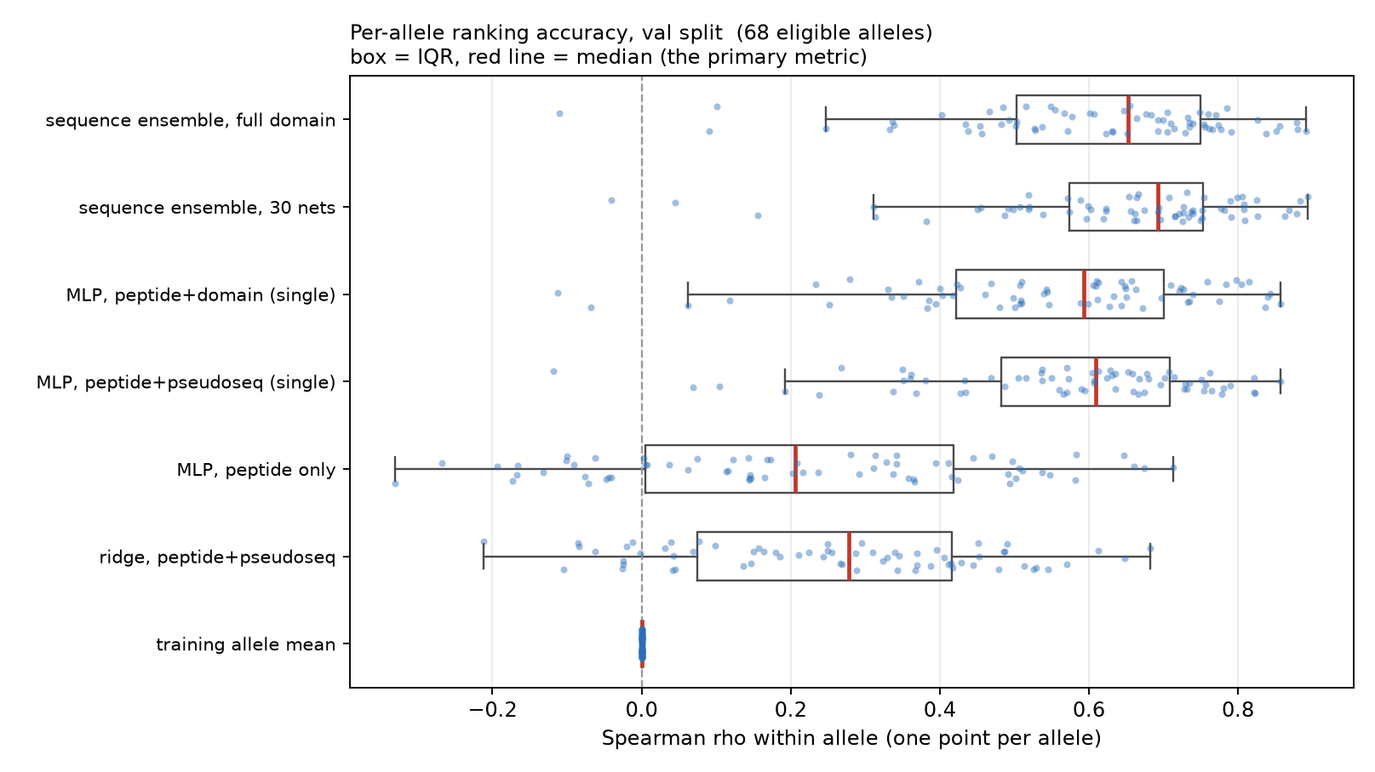
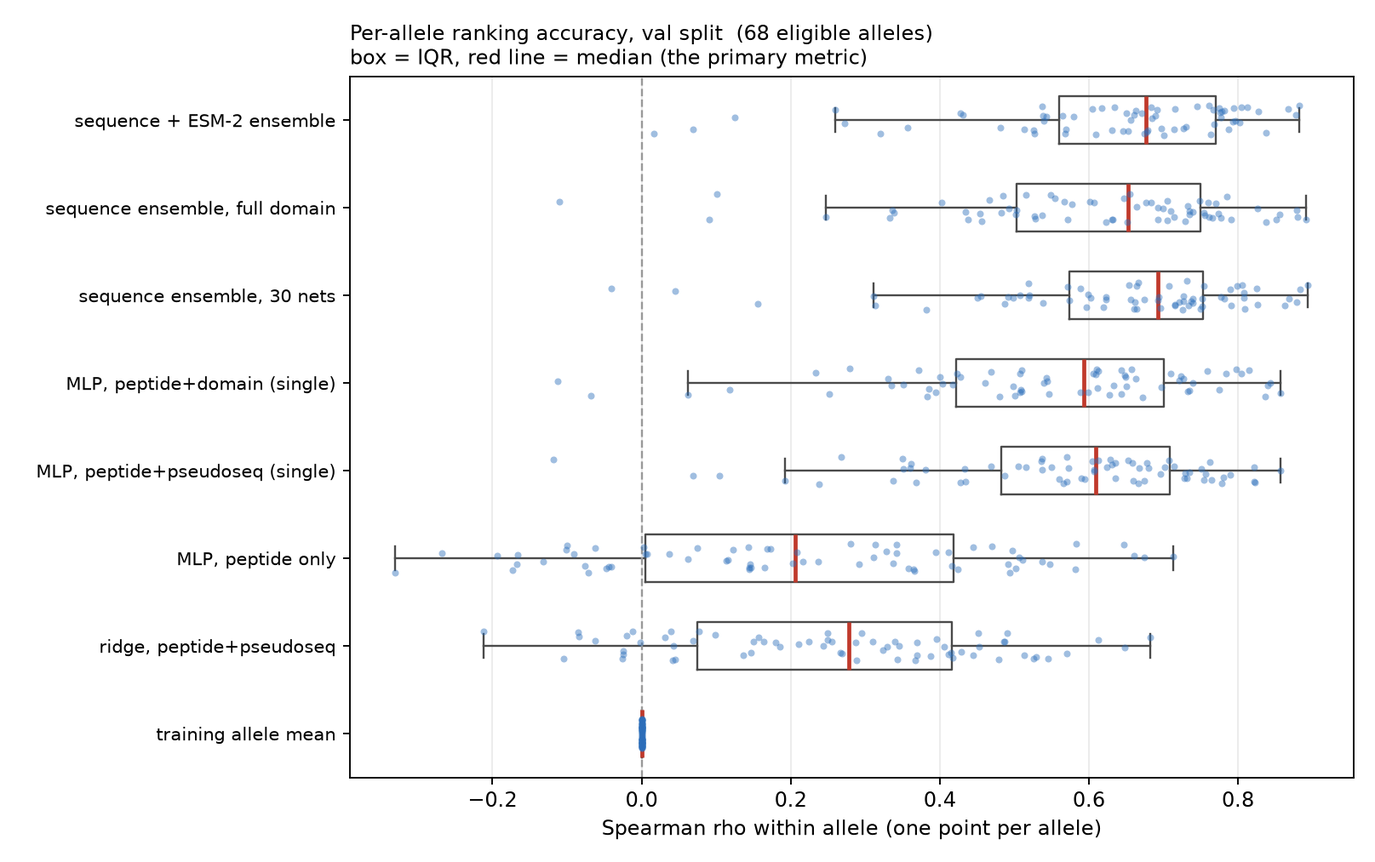
Write up both stage 7 results and carry the corrected confound everywhere
The censored arm enters the results table at 0.6518 with the verdict "worse,
conclusively" -- the only negative verdict in it, and the one verdict the
project had not otherwise produced, since every other negative here is
inconclusive-but-rules-out-the-bar. It sits directly above the two in-flight
foundation-model rows, which demonstrates the contract can return a negative
rather than only ever hedging.

The corrected allele-hold-out confound replaces the plan's original mechanism
in all three places it appeared, verified by grep. Carried with it: this
contract is easier in one respect -- seen peptide, unseen allotype -- so 0.741
must never be quoted beside the frozen split's 0.693, which would look like a
win and is not comparable.

Ledger records 538 networks across two complete experiments for about an hour
of laptop CPU, against $200.8 forecast for one structural fold.

diff --git a/reports/SUBMISSION.md b/reports/SUBMISSION.md
@@ -700,6 +700,67 @@ fine backbone detail, not in the coarse pose descriptors. Nothing material turns
 on it, since production is Boltz-2 only; it governs how ESMFold2 is *described*,
 not what runs.
 
+### 4.6 A censored likelihood fixes the floor and loses the ranking
+
+Stage 1 recorded that treating a detection floor as an exact zero is the
+project's biggest modelling compromise, and that a **left-censored (Tobit-style)
+likelihood** is the principled fix: for a floor row the honest statement is not
+"t<sub>1/2</sub> = 0" but "the latent value is at or below the detection limit".
+That has now been built and tested
+([`stage7_censored.md`](stage7_censored.md)).
+
+Everything was predeclared before a single censored model was fitted — the loss,
+the detection limit **c = log1p(0.1 h)** justified from the 0.1 h reporting grid
+rather than from any score, a five-point sensitivity sweep, the prediction
+heads, and the expectation that a censored loss should improve *calibration near
+the floor* rather than *ranking*. Two 30-network ensembles, identical in
+everything but the objective.
+
+| | median per-allele ρ | MAE log1p | mass below the limit | ECE | floor AUROC |
+|---|---:|---:|---:|---:|---:|
+| `log1p`-MSE (the baseline) | **0.6931** | **0.4734** | 0.070 | 0.0561 | 0.8862 |
+| censored @ 0.1 h | 0.6518 | 0.5763 | **0.168** | **0.0422** | 0.8853 |
+| *observed* | — | — | *0.196* | — | — |
+
+**Δ median per-allele Spearman = −0.0414, 95% CI [−0.0780, −0.0062].** The
+interval lies **entirely below zero**, so under the predeclared reading this is
+the one verdict this project has not otherwise produced: **worse, conclusively** —
+not inconclusive, and not merely "fails to clear the bar".
+
+Three things make that a real negative rather than a metric mismatch:
+
+- **It loses on its own objective.** Held-out censored NLL is **1.0765** for the
+  censored arm against **1.0452** for the MSE arm. We did not optimise one thing
+  and measure another.
+- **The threshold is not load-bearing.** Across a six-fold range of the
+  detection limit, 0.05–0.30 h, median ρ spans **0.0095** — far below the seed
+  spread, let alone the 0.05 bar. The declared 0.1 h is neither the best nor the
+  worst point in that sweep, which is what a threshold fixed before training
+  should look like.
+- **It delivered exactly the calibration it promised, and that was not enough.**
+  Predictive mass below the limit moves 7.0% → **16.8%** against an observed
+  19.6%, and expected calibration error improves 0.0561 → **0.0422**. But floor
+  *discrimination* does not move at all (AUROC 0.8862 vs 0.8853) — which is what
+  §5 of that report predicted, because **ranking within the tied floor block is
+  unidentifiable under either objective**. The censored arm places floor rows
+  better on the scale; it does not order them better.
+
+**The mechanism, reported as a control and not as a result.** The censored arm's
+own dev objective bottoms out at epoch ~10 against the MSE arm's ~27, so it is
+systematically **undertrained**. A control changing only the stopping rule — same
+loss, same gradients — recovers almost all of the ranking (−0.0065 against its
+reference, versus −0.0318) while roughly halving the calibration error. That
+control was predeclared as a control, ran at a reduced budget, and **has no
+confidence interval**. It localises a likely fix; it does not establish one.
+Promoting it to a result would be precisely the post-hoc selection this stage
+exists to avoid, so it stays a control.
+
+**What stands:** the frozen `log1p`-MSE baseline. Nothing downstream switches
+loss on this evidence. What the censored arm uniquely offers is a *probability
+that a pair sits below the assay floor*, produced by its own fit rather than by
+a scale bolted on afterwards — useful if a downstream application needs that
+number, which this benchmark does not.
+
 ---
 
 ## 5. Results
@@ -725,6 +786,7 @@ do not answer.
 | **30-net ensemble, pep + pseudoseq** | **the baseline to beat** | **0.693** | — | — | **$2.0 × 10⁻⁷** |
 | Weak-binder augmentation (best arm) | 2,910–4,407 assumed-zero rows | 0.618 | +0.024 [−0.026, +0.048] | **inconclusive, rules out 0.05** | $2.0 × 10⁻⁷ |
 | Auxiliary affinity head (best λ) | 5,135 affinity labels | 0.701 | +0.008 [−0.017, +0.030] | **inconclusive, rules out 0.05** | $2.0 × 10⁻⁷ |
+| Censored (Tobit) likelihood | same features, censored loss | 0.6518 | **−0.0414 [−0.0780, −0.0062]** | **worse, conclusively** | $2.0 × 10⁻⁷ |
 | **ESM-2, frozen representations** | **pretrained sequence embeddings** | **‹HOLE E2›** | **‹HOLE E2›** | **‹HOLE E2›** | **$4.4 × 10⁻⁴** + ‹HOLE E1b› |
 | **Boltz-2, structural features** | **predicted 3D complex + confidence** | **‹HOLE B2›** | **‹HOLE B2›** | **‹HOLE B2›** | **$6.90** |
 
@@ -785,10 +847,11 @@ dash-dot line is the entire result.
 | **E2** | ESM-2 validation accuracy and its paired CI | `esm-arm` | Median per-allele ρ under `cv_folds()` with matched ensemble size, and the paired cluster-bootstrap Δ against `preds/seq_ensemble_pep_pseudo.csv`. Must also be compared against the **full-domain** ensemble (0.653) if the HLA input is the domain |
 | **B2** | Boltz-2 structural accuracy and its paired CI | stage 4c production → stage 5 | Same, on identical train/val/test rows with matched head architecture, ensemble size and tuning budget. Plus coverage and the declared sequence fallback for structural failures |
 | **B3** | Realised production spend | Modal production session | Metered before/after snapshots per workspace, realised GPU-hours and wall clock, failure count, actual concurrency granted. `production_<profile>.jsonl` exist for both profiles and are currently **empty** |
+| **A1** | Per-stratum leave-allele-out for the ESM-2 and structural arms (§6.6) | `esm-arm` / stage 5 | A **feature matrix plus its `pair_id` index**, refit across all 68 folds at the fixed 6 networks per fold — **not** a `preds/*.csv`, which the runner rejects. A stratum may come back inconclusive and must be reported as such |
 | **B4** | Structural coverage and failure rate (§6.5) | stage 5 | Pairs with a valid structure, pairs falling back to the sequence model, and the primary result reported on the **frozen cohort**, not on whatever folded |
 | **E1b** | ESM-2 **head** inference cost | `esm-arm` | The extraction half is already measured (`stage3_embedding_cost.csv`: 1.07–8.50 s per 1,000 new peptides across three checkpoints). Still needed: head inference seconds per 1,000 rows, member count, and which checkpoint/layer/representation was selected |
 | ~~S3C~~ | ~~Elution external validation~~ | — | **Filled**: [`stage3c_elution_validation.md`](stage3c_elution_validation.md), §4.4 above. Still open as a *follow-on*: the same pass on the ESM-2 and structural arms |
-| **S7a** | Censored (Tobit) likelihood result | stage 7a | `stage7_censored.md` §1–5 are predeclared and committed; §6 is "pending". Needed: the paired Δ against the identical-protocol MSE ensemble, plus the `c_hours` sensitivity sweep |
+| ~~S7a~~ | ~~Censored (Tobit) likelihood result~~ | — | **Filled**: [`stage7_censored.md`](stage7_censored.md), §4.6 above. Negative on ranking, with the sensitivity sweep and the undertraining control |
 | **S6** | Stage 6 test results, distance strata, differential target, nested near-neighbour CV | `eval-harness` | §6 below |
 
 ---
@@ -800,8 +863,9 @@ evaluations were specified in the frozen contract, each answering a question the
 headline cannot. **They run at stage 6 and cost no new compute** — all are
 re-aggregations of predictions already made.
 
-A sixth — transfer to an entirely different assay — has already been delivered
-and is reported in §4.4, with its three specificity controls.
+Two more have already been delivered: transfer to an entirely different assay
+(§4.4, with its three specificity controls) and the leave-allele-out evaluation
+(§6.6), which needed a second contract of its own.
 
 ### 6.1 Distance stratification — is the model generalising or remembering?
 
@@ -853,6 +917,72 @@ a declared sequence-model fallback** as the primary result, and common successfu
 rows only as a diagnostic. **Scoring only the pairs that happened to fold would
 be a retrospectively chosen cohort**, which is exactly the kind of quiet
 selection a watertight evaluation has to rule out. Result: **‹HOLE B4›**.
+
+### 6.6 Leave-allele-out — a second contract, and the headroom it exposes
+
+This is the one evaluation that asks a *different* question from the headline:
+not "unseen peptides on alleles we trained on" but **"unseen allotype"**. It
+needs its own split, its own contract and every number reported twice, which is
+why the plan put it at "if time remains". It has now been run for the sequence
+arm ([`stage7_allele_holdout.md`](stage7_allele_holdout.md)): 68 folds, one per
+eligible allele, each fitting on every *other* allele's rows, 6 networks per
+fold, no tuning, `split in {train, val}` only. **The frozen test split was not
+read, and `data/splits.csv` is unmodified.**
+
+| Stratum (pseudosequence Hamming to nearest training allele) | Alleles | Median ρ | 95% CI |
+|---|---:|---:|---|
+| near, d ≤ 1 | 25 | **0.741** | [0.642, 0.803] |
+| intermediate, d = 2–3 | 23 | 0.576 | [0.458, 0.726] |
+| distant, d ≥ 4 | 20 | **0.339** | [0.298, 0.491] |
+
+**near − distant = +0.403 [+0.223, +0.478].** The sequence baseline degrades
+sharply on allotypes unlike anything it trained on.
+
+**The extreme contrast is solid; the monotone three-bin trend is not.** The
+adjacent contrasts do not hold up — near − intermediate is **+0.166 [−0.010,
++0.327]**, which crosses zero — and the strata overlap heavily: the distant
+bin's *best* allele (0.753) beats the near bin's *worst* (0.419). The medians
+separate; the distributions do not. Reporting a monotone trend would overstate
+what this design resolves.
+
+**This is where a pretrained model has its strongest prior of winning** —
+pan-allele generalisation is exactly what large-scale pretraining should
+supply — so a 0.403 deficit in that stratum is a large, measurable headroom.
+**Nothing here says ESM-2 will capture it.** A measured deficit is a
+precondition for the claim, not evidence for it.
+
+**Two constraints that travel with every number above.**
+
+*The confound is real, but not the one the plan described.* The plan asserted
+that holding out an allele also holds out its peptide panel. Measured, that is
+**not what happens**: the median peptide is assayed on **4 alleles**,
+allele-exclusive peptides are only **6.0% of rows**, and for the median eligible
+allele **100%** of its rows carry a peptide seen on some other allele. Peptide
+overlap is uncorrelated with distance (−0.067) and with per-allele performance
+(+0.034). So this evaluation is largely *seen peptide, unseen allotype* — easier
+than the frozen split in one respect, harder in another, and its absolute
+numbers **must never be quoted beside a frozen-split number**. What does survive
+is **panel composition**: distant alleles carry weaker-binding, more heavily
+censored panels (Spearman(distance, zero share) = +0.251, p = 0.039). Partialling
+that out leaves distance at **−0.604** (p = 4.9 × 10⁻⁸) against −0.636 raw — so
+the confound is **attenuated, not eliminated**, and zero share is only one proxy
+for panel composition. The clearest illustration is the single worst fold:
+`HLA-B*39:06(C67S)` at **d = 3**, with a 91.8% floor panel — it scores badly
+because of its panel, not its distance.
+
+*A prediction file cannot be scored through this contract.* Everything in
+`preds/*.csv` is the output of a model fitted on **every** allele. Scoring one
+here would score a model on alleles it trained on and **report the leak as
+pan-allele generalisation — a number that would look like a win.**
+Leave-allele-out refits 68 times, so **each arm must supply features and be
+refit**, not hand over predictions. The runner rejects a `preds/*.csv` with that
+message and a test guards it. Ensemble size is fixed at 6 networks per fold for
+every arm, so no arm can win on ensembling budget.
+
+Per-stratum ESM-2 and structural comparisons are therefore worth running and are
+**not guaranteed to conclude**: the measured minimum detectable effect is 0.025–0.030
+when per-allele deltas are tight, rising to 0.075–0.115 when they are loose, so
+an inconclusive stratum must be reported as inconclusive rather than as a null.
 
 ---
 
@@ -952,12 +1082,17 @@ reader's interpretation most:
    censored (Tobit) likelihood is the principled fix; it was recorded as out of
    scope and is now in flight as stage 7a, with its protocol predeclared and
    its results pending (hole **S7a**).
-2. **The peptide panels are allele-confounded by design.** Each allele was
-   assayed on its own panel; the grid is 6.7% full. This broke the first split,
-   and it is the reason leave-allele-out evaluation is not the headline —
-   holding out an allele also holds out its peptide panel, so an allele-distance
-   effect is inseparable from a panel effect. **That confound does not disappear
-   by being measured.**
+2. **The peptide panels are allele-confounded by design — though not in the way
+   we first wrote down.** Each allele was assayed on its own panel; the grid is
+   6.7% full, and this broke the first split. The plan then claimed that holding
+   out an allele also holds out its peptide panel. **Measured, that is false**:
+   the median peptide sits on 4 alleles, allele-exclusive peptides are 6.0% of
+   rows, and for the median eligible allele 100% of its rows carry a peptide
+   seen elsewhere (§6.6). The confound survives through **panel composition**,
+   not panel hold-out — distant alleles carry more heavily censored panels
+   (+0.251, p = 0.039) — and partialling that out leaves the distance effect at
+   −0.604 against −0.636 raw. **Attenuated, not eliminated**, and zero share is
+   only one proxy for panel composition.
 3. **The assay panel was pre-selected by predicted affinity**, so peptide
    diversity is narrow by construction. The benchmark measures ranking *within
    the set of peptides that bind*. Broader biological or clinical claims need
@@ -996,17 +1131,16 @@ Ordered by expected value per hour, not by appeal.
 1. **Finish the in-flight arms and score the test set once** (holes E1b, E2,
    B2–B4, S3C, S6, S7a). Everything else is downstream of knowing whether the
    expensive arms clear 0.05.
-2. **Finish the censored (Tobit) likelihood — now in flight as stage 7a.** This
-   is the highest-value single change to the modelling. 20.2% of labels are a
-   detection limit treated as exact zeros, and the same problem independently
-   wrecked the stage 2b affinity predictor's recall (0.263 at 0.823 precision,
-   because 26.8% of its labels sit exactly on the threshold). One fix addresses
-   both. [`stage7_censored.md`](stage7_censored.md) predeclares the loss, the
-   detection threshold `c = log1p(0.1)`, a five-point sensitivity sweep and the
-   prediction heads **before any censored model was fitted** — and predeclares
-   the expectation that it should improve calibration near the floor rather than
-   ranking, since order inside the tied floor block is unidentifiable under
-   either objective. Hole **S7a**.
+2. **Re-run the censored likelihood with the MSE stopping rule.** §4.6 settled
+   the headline question — as predeclared, the censored loss is **worse on
+   ranking**, conclusively. But it localised a likely cause: the censored arm's
+   own dev objective turns over at epoch ~10, so it is undertrained, and a
+   control changing only the stopping rule recovers almost all of the ranking
+   *and* halves the calibration error. That control has no interval and was run
+   at reduced budget. Running it properly, predeclared, at full budget is the
+   obvious next experiment — and it must be predeclared, because selecting it
+   now on the strength of the control would be the post-hoc selection the stage
+   avoided. A heteroscedastic scale and a per-allele floor are also untested.
 3. **Test the chimeric ESM-2 input.** If the separate-embedding arm is flat, the
    obvious objection is that we never let the language model see the interaction.
    A peptide-linker-groove construct is the sharpest version of the question and
@@ -1017,11 +1151,13 @@ Ordered by expected value per hour, not by appeal.
    rows). Affinity is redundant with what a *sequence* model extracts; that says
    nothing about ESM-2 features. "Cheap labels substitute for expensive
    pretraining" would be a genuinely useful finding.
-5. **Run the allele-held-out evaluation, with its confound reported alongside.**
-   This is the stratum where pretraining has the strongest prior of winning —
-   pan-allele generalisation is exactly what large-scale pretraining should
-   provide — so a gain confined to distant alleles would be real and reportable
-   even if the pooled comparison came out flat.
+5. **Run the ESM-2 and structural arms through the leave-allele-out contract.**
+   §6.6 has already run it for the sequence arm and found a **0.403 deficit** on
+   distant allotypes — the stratum where pretraining has the strongest prior of
+   winning. A gain confined there would be real and reportable even if the
+   pooled comparison came out flat. **Each arm must supply features and be refit
+   across all 68 folds**; handing over a `preds/*.csv` would score a model on
+   alleles it trained on and report the leak as generalisation.
 6. **Check the ProteinMPNN pose-triage signal on more than one failing
    complex.** §4.5 is a promising observation resting on n=1, and it will stay
    that way until production structures exist and the QC sample runs. Until then

diff --git a/reports/limitations.md b/reports/limitations.md
@@ -72,8 +72,23 @@ limit", and `log1p` records "t½ = 0". Two consequences:
 
 **The principled alternative is a censored (Tobit-style) likelihood**, which
 models P(t½ < floor) directly. It was recorded as out of scope for a 16-hour
-build, not as unnecessary (`HACKATHON_PLAN.md`, out-of-scope register), and is
-**now in flight as stage 7a** — `reports/stage7_censored.md` predeclares the
+build, not as unnecessary (`HACKATHON_PLAN.md`, out-of-scope register). **It has
+now been built and tested, and it is worse** — Δ median per-allele Spearman
+**−0.0414, 95% CI [−0.0780, −0.0062]**, an interval entirely below zero, and it
+also loses on its own held-out objective (censored NLL 1.0765 vs 1.0452). It
+does deliver the calibration it promised (predictive mass below the limit
+7.0% → 16.8% against an observed 19.6%; ECE 0.0561 → 0.0422) and does **not**
+improve floor discrimination at all (AUROC 0.8862 vs 0.8853), exactly as
+predeclared, because ranking inside the tied floor block is unidentifiable under
+either objective. The result is flat across detection limits 0.05–0.30 h (median
+ρ spans 0.0095), so the free parameter is not driving it. **So the `log1p`
+compromise is not merely a 16-hour substitute that was never checked — it was
+checked, and it won on the primary metric.** The likely cause of the loss is the
+stopping rule rather than the loss itself (the censored arm's dev objective
+turns over at epoch ~10 against the MSE arm's ~27, so it is undertrained); that
+is reported as a **control without an interval**, not as a result. Full detail
+in `stage7_censored.md`; summary at SUBMISSION §4.6. This was previously tracked
+as stage 7a — `reports/stage7_censored.md` predeclares the
 loss, the detection threshold `c = log1p(0.1)` (justified from the 0.1 h
 reporting grid and the single row between 0 and 0.1 h, never from a validation
 score), a five-point `c_hours` sensitivity sweep including a deliberate
@@ -127,14 +142,37 @@ it has three consequences the submission cannot design away:
    early. That left `HLA-B*42:01`, `HLA-B*51:01` and `HLA-B*81:01` (~350 pairs
    each) with **zero test rows**. Ranking by deficit relative to target fixed it
    at no cost to the 70/10/20 totals (`audit_summary.md` §5).
-2. **It is why the allele-held-out evaluation is not the headline.** Holding out
-   an allele simultaneously holds out its peptide panel, so an apparent
-   allele-distance effect is inseparable from a peptide-panel effect. **This
-   confound does not disappear by being measured** — if that evaluation is run,
-   it must be reported alongside. This reason is specific to this dataset and is
-   the one that matters; the other three (different question, second split
-   needed, skewed allele coverage) are weaker
-   (`HACKATHON_PLAN.md`, "Why the allele-axis hold-out is not the headline").
+2. **It is why the allele-held-out evaluation is not the headline — but the
+   mechanism we originally wrote down was wrong, and has been corrected.**
+   `HACKATHON_PLAN.md` claimed that holding out an allele simultaneously holds
+   out its peptide panel, making an allele-distance effect inseparable from a
+   panel effect. **Measured, that is not what happens** (`stage7_allele_holdout.md`
+   §4): the median peptide is assayed on **4 alleles**, allele-exclusive
+   peptides are **6.0% of rows**, and for the median eligible allele **100%** of
+   its rows carry a peptide also seen on another allele (minimum 0.565). Peptide
+   overlap is uncorrelated with distance (−0.067, p = 0.59) and with per-allele
+   performance (+0.034, p = 0.79). So leave-allele-out here is largely *seen
+   peptide, unseen allotype* — **easier** than the frozen split in that respect,
+   which is exactly why its absolute numbers must never be quoted beside a
+   frozen-split number.
+
+   **What the confound actually is: panel composition.** Each allele's panel was
+   partly selected by predicted binding affinity for *that* allele, and distant
+   alleles carry weaker-binding, more heavily censored panels —
+   Spearman(distance, per-allele zero share) = **+0.251, p = 0.039**. Partialling
+   the two apart leaves distance at **−0.604** (p = 4.9 × 10⁻⁸) against −0.636
+   raw, and zero share at −0.336 (p = 5.1 × 10⁻³). **Both carry independent
+   signal: the confound is attenuated, not eliminated**, and zero share is only
+   one proxy — anchor-motif composition, peptide diversity and the
+   affinity-prediction step that chose each panel are unmeasured. The single
+   worst fold makes it concrete: `HLA-B*39:06(C67S)` sits at **d = 3** with a
+   **91.8% floor panel**, so it scores badly because of its panel, not its
+   distance.
+
+   The plan's other three reasons stand unchanged, except that reason 4
+   (skewed allele coverage) describes test-split counts and **does not bind on
+   this axis** — in-scope rows per allele jump 30 → 177 with nothing between, so
+   68 alleles stratify comfortably into 25/23/20.
 3. **Per-allele medians are over an unbalanced panel.** 8 of 75 alleles hold
    fewer than 50 test rows and are excluded from the test panel; 7 of those hold
    ≤ 32 pairs in the entire dataset. Only `HLA-B*40:02` (19 pairs) is missing
@@ -517,10 +555,10 @@ Recorded so that absence is not mistaken for a result. Full rationale in
 
 | Not run | Why | Status |
 |---|---|---|
-| Allele-held-out evaluation | Confounded by allele-specific peptide panels (§2.1); different question from the headline claim | Deferred; the stratum where pretraining has the strongest prior of winning |
+| ~~Allele-held-out evaluation~~ | Different question from the headline; confounded by **panel composition**, not panel hold-out (§2.1) | **Run for the sequence arm**: near 0.741 vs distant 0.339, +0.403 [+0.223, +0.478]. Extreme contrast solid, monotone trend not. ESM-2 and structural arms still to run, and **must be refit, not scored from a `preds/*.csv`** |
 | ~~ProteinMPNN inverse-folding scores~~ | Was blocked on needing structures; the stage 4c pilot's 90 folds unblocked it | **Run** — pilot complete, §7.2. Kept as a ~$1 QC triage sample; **declined as a regression feature** on a measured n=5 label correlation of −0.100 |
 | Chimeric peptide-linker-groove ESM-2 input | Far outside ESM-2's distribution | **Listed specifically so a stage 3 null is reported as bounded** (§5.3) |
-| ~~Tobit / censored likelihood~~ | Was the 16-hour substitute's known gap | **Now in flight as stage 7a**, protocol predeclared, results pending (§1.1, hole S7a) |
+| ~~Tobit / censored likelihood~~ | Was the 16-hour substitute's known gap | **Run, and negative**: −0.0414 [−0.0780, −0.0062] on ranking, gains calibration only (§1.1) |
 | FoldX / Rosetta / empirical ΔG | Equilibrium ΔG vs a kinetic label (§1.3), **and both are licence-gated behind registration** | Declined for two independent reasons — §7.0 |
 | Elution data as training augmentation | 5.4× scale mismatch, unknowable threshold τ, confounded with abundance/cleavage/TAP/ionisation, and it changes the question | Rejected **as training data**; used as external validation instead, which has now run — §7.1 |
 | ESMFold2 production folds | Failed its gate; $884 forecast | §5.4 |
@@ -663,7 +701,8 @@ signal has been checked on more than one failing complex.
 | **B4** | Stage 5 structural feature coverage and failure rate; what the declared sequence fallback covers | blocked on 4c production |
 | **S7** | Whether d=4 and d≥5 test strata separate (§3.1), and the nested near-neighbour result (§3.2) | `eval-harness` |
 | **S8** | Any allele where the test panel disagrees sharply with validation — hard alleles vs overfitting to the validation panel | `eval-harness` |
-| **S7a** | The censored-likelihood result and its `c_hours` sensitivity sweep (§1.1) | stage 7a |
+| ~~S7a~~ | ~~Censored-likelihood result~~ — **filled**, §1.1 | — |
+| **A1** | Per-stratum leave-allele-out comparison for the ESM-2 and structural arms (§2.1). Measured MDE is 0.025–0.030 when per-allele deltas are tight and 0.075–0.115 when loose, so **a stratum may come back inconclusive and must be reported as such, not as a null** | `esm-arm` / stage 5 |
 | ~~S3C~~ | ~~Elution external-validation write-up~~ | **Filled**: `stage3c_elution_validation.md`, §7.1. Open as a follow-on: the same pass on the ESM-2 and structural arms |
 | **P1** | Whether the ProteinMPNN pose-triage signal survives a second failing complex (§7.2) | blocked on 4c production + the QC sample |
 | **A3** | Whether the six partly-inferred ectodomain constructs (§6.6) behave differently at stage 5 | stage 5 |

diff --git a/reports/compute_ledger.md b/reports/compute_ledger.md
@@ -213,6 +213,25 @@ second core was billing an idle one — and throughput moved by only ~8% (326 s 
 Spend so far on this workstream — two smokes and two 1,000-fold passes — is
 **under $0.15**.
 
+### Stages 7a and 7b — measured, CPU, $0
+
+Both ran to completion on the laptop while the GPU budget sat untouched.
+
+| Stage | Work | Networks | Time | $ |
+|---|---|---:|---:|---:|
+| 7a | Censored likelihood: 2 full 30-net ensembles, a 5-point threshold sweep and the stopping-rule control | **130** | 29.6 min | 0 |
+| 7b | Leave-allele-out: 68 folds × 6 networks, a second evaluation contract end to end | **408** | 36.2 min on 2 workers | 0 |
+
+**538 networks and two complete experiments for about an hour of laptop CPU**,
+against $200.8 forecast for one structural fold. That ratio is the submission's
+argument in miniature: the cheap arms are not cheap *because they are small* —
+they are cheap because inference on a one-hot MLP is a matrix multiply, and
+nothing about running 538 of them changes the order of magnitude.
+
+Stage 7b in particular is a **second evaluation contract** — its own split, its
+own eligibility rule, its own bootstrap unit (the allele, not the peptide
+cluster) — which the plan listed as a reason *not* to run it. It cost 36 minutes.
+
 ### A note on published versus metered rates
 
 Both forecasts above are built from the repo's **metered** rates
@@ -234,7 +253,7 @@ what the harness actually did is what fixed it.
 | 3 | ESM-2 **regression head** fit and inference | `esm-arm` | Head fit seconds, ensemble member count, inference seconds per 1,000 rows (hole **E1b**) |
 | 5 | Structural feature **heads** (the extraction forecast is above) | blocked on 4c production | Head fit time, extraction failures, realised extraction spend |
 | 6 | Final test scoring and paired bootstraps | `eval-harness` | CPU-minutes for the single test pass and the bootstrap |
-| 7a | Censored (Tobit) likelihood | stage 7a | 60 networks (2 arms × 30), CPU; protocol predeclared in `stage7_censored.md`, results pending |
+| 7a | *(filled — see below)* | — | — |
 
 ---
 
